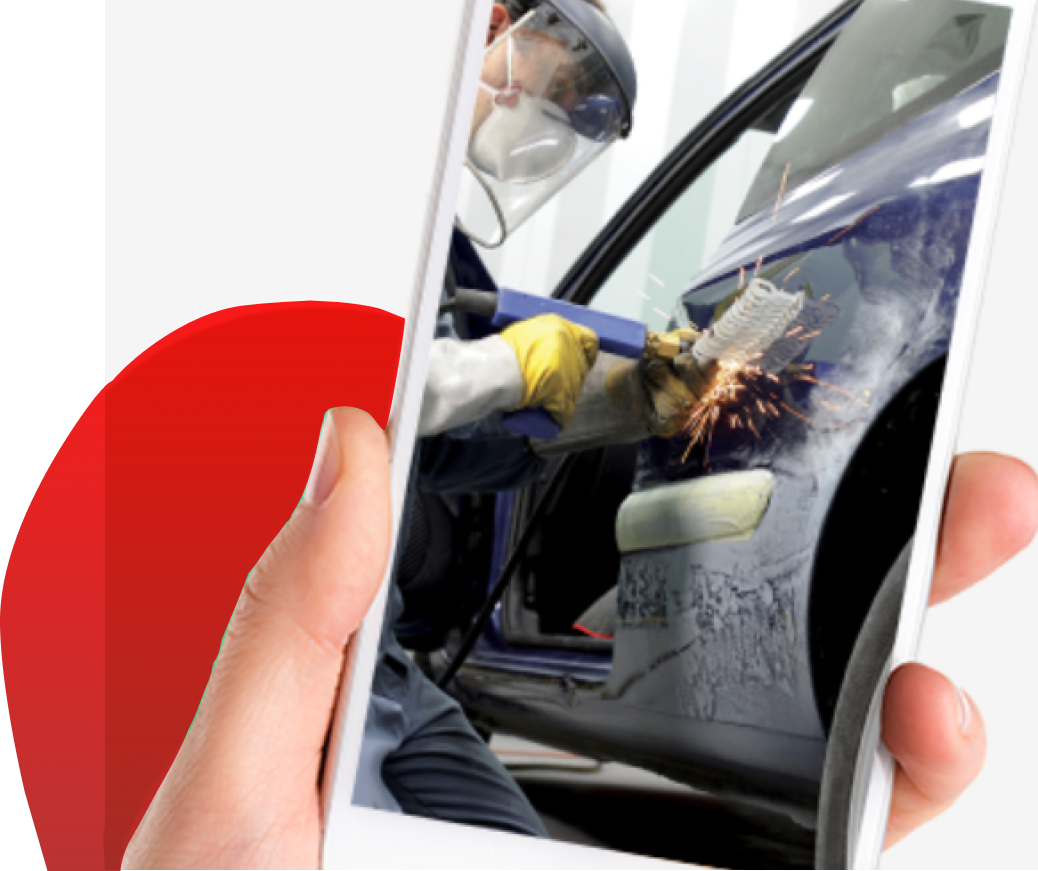
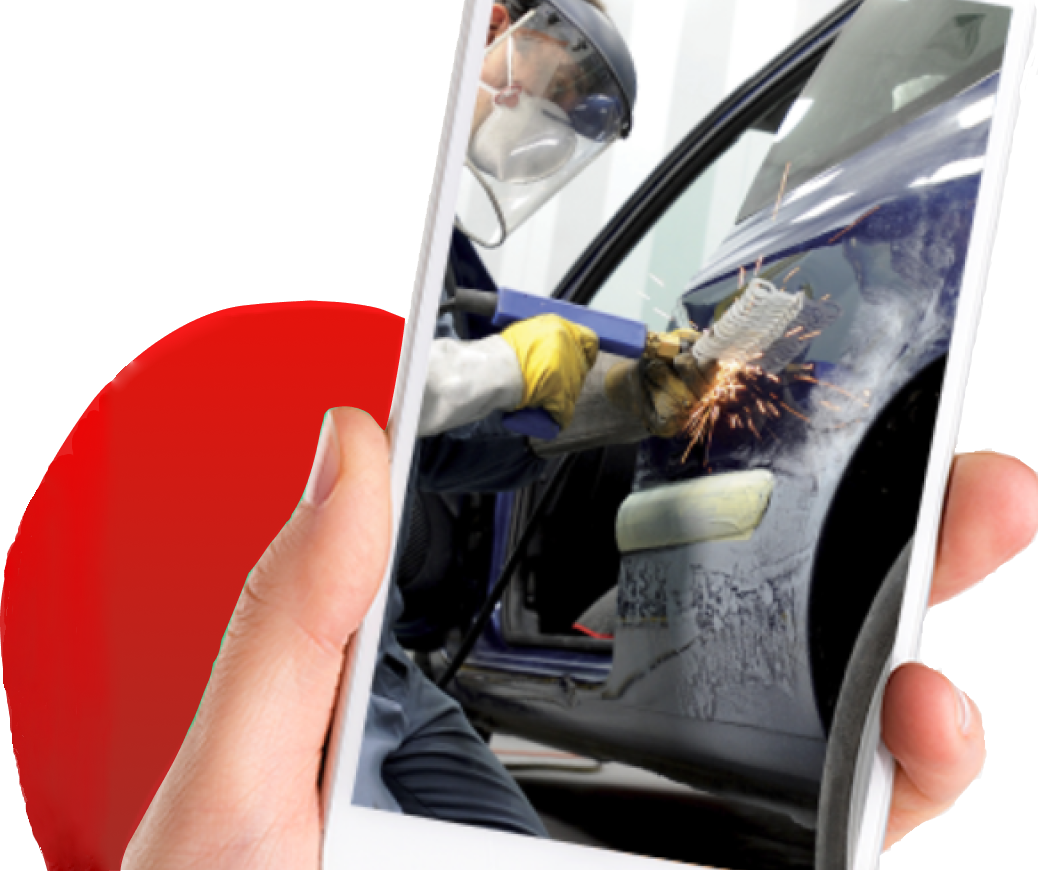
Complete

diff --git a/css/style.css b/css/style.css
@@ -424,7 +424,7 @@ header{
 /*---- photo start -----*/
 .photo{
 	padding-top: 40px;
-	background: url(../img/zz.png);
+	background: url(../img/hand.png);
 	background-repeat: no-repeat;
 	background-position: right;
 	background-size: contain;
@@ -505,18 +505,19 @@ header{
 	right: 535px;
 	top: 170px;
 	font-size: 12px;
+	z-index: -1;
 }
 #s1{
 	right: 440px;
-	top: 110px;
+	top: 120px;
 }
 #s2{
 	top: 230px;
-	right: 545px;
+	right: 560px;
 }
 #s3{
-	top: 400px;
-	right: 545px;
+	top: 410px;
+	right: 580px;
 
 }
 
@@ -1223,23 +1224,25 @@ footer{
 		font-size: 14px;
 	}
 	.photo{
-		background-position: bottom 0 right 0, bottom 0px right 250px;
-    	background-size: 500px, 300px;
+		background-position: bottom 0 right -100px;
 	}
 	.photo span{
 		font-size: 11px;
+		width: 125px;
+		height: 125px;
+		text-align: center;
 	}
 	#s1 {
-	    right: 340px;
-	    top: 110px;
+	    right: 390px;
+	    top: 170px;
 	}
 	#s2 {
-	    top: 230px;
-	    right: 445px;
+	    top: 280px;
+	    right: 510px;
 	}
 	#s3 {
-	    top: 400px;
-	    right: 445px;
+	    top: 440px;
+	    right: 500px;
 	}
 	.remont_item{
 		margin-right: 20px;
@@ -1256,8 +1259,7 @@ footer{
 		font-size: 30px;
 	}
 	.photo{
-		background-position: bottom 0 right -150px, bottom 0px right 100px;
-    	background-size: 500px, 300px;
+		background-position: bottom 0 right -250px;
 	}
 	.photo span{
 		font-size: 11px;
@@ -1266,16 +1268,16 @@ footer{
 		text-align: center;
 	}
 	#s1 {
-	    right: 200px;
-	    top: 110px;
+	    right: 190px;
+	    top: 140px;
 	}
 	#s2 {
-	    top: 230px;
-	    right: 300px;
+	    top: 250px;
+	    right: 330px;
 	}
 	#s3 {
 	    top: 420px;
-	    right: 320px;
+	    right: 360px;
 	}
 	.contacts_grid .right h4{
 		font-size: 26px;
@@ -1387,20 +1389,19 @@ footer{
 		grid-column-gap: 50px;
 	}
 	.photo {
-	    background-position: bottom 0 right -200px, bottom 0px right 50px;
-	    background-size: 500px, 300px;
+	    background-position: bottom 0 right -350px;
 	}
 	#s1 {
-	    right: 150px;
-	    top: 120px;
+	    right: 120px;
+	    top: 140px;
 	}
 	#s2 {
-	    top: 240px;
-	    right: 260px;
+	    top: 270px;
+	    right: 230px;
 	}
 	#s3 {
-	    top: 420px;
-	    right: 270px;
+	    top: 440px;
+	    right: 250px;
 	}
 	.remont_item b{
 		font-size: 3em;
@@ -1511,20 +1512,22 @@ footer{
 		width: 200px;
 	}
 	.photo {
-	    background-position: bottom 0 right -250px, bottom 0px right 0px;
-	    background-size: 500px, 300px;
+	    background-position: bottom 0 right -350px;
 	}
 	#s1 {
-	    top: 100px;
-	    right: 100px;
+	    top: 140px;
+	    right: 80px;
 	}
 	#s2 {
-	    top: 220px;
-	    right: 210px;
+	    top: 250px;
+	    right: 190px;
 	}
 	#s3 {
-	    top: 410px;
+	    top: 390px;
 	    right: 220px;
+	}
+	.photo span{
+		font-size: 10px;
 	}
 	.dang h3{
 		font-size: 16px;
@@ -1641,20 +1644,20 @@ footer{
 		font-size: 10px;
 	}
 	.photo {
-	    background-position: bottom 0 right -200px, bottom 0px right 10px;
-	    background-size: 400px, 230px;
+	    background-position: bottom 0 right -250px;
+	    background-size: 500px;
 	}
 	#s1 {
-	    top: 180px;
-	    right: 90px;
+	    top: 220px;
+	    right: 70px;
 	}
 	#s2 {
-	    top: 280px;
+	    top: 300px;
 	    right: 180px;
 	}
 	#s3 {
 	    top: 430px;
-	    right: 170px;
+	    right: 180px;
 	}
 	.header_content{
 		font-size: 10px;
@@ -1799,20 +1802,25 @@ footer{
 		width: 125px;
 	}
 	.photo {
-	    background-position: bottom 0 right 000px, bottom 0px right 110px;
-	    background-size: 200px, 150px;
+	    background-position: bottom 0 right -200px;
+	    background-size: 400px;
 	}
 	#s1 {
-	    top: 180px;
-	    right: 90px;
+	    top: 280px;
+	    right: 60px;
 	}
 	#s2 {
-	    top: 280px;
-	    right: 180px;
+	    top: 340px;
+	    right: 150px;
 	}
 	#s3 {
-	    top: 430px;
-	    right: 170px;
+	    top: 440px;
+	    right: 160px;
+	}
+	.photo span{
+		width: 75px;
+		height: 75px;
+		font-size: 7px;
 	}
 	.services__item{
 		width: 30%;
@@ -2087,5 +2095,21 @@ footer{
 	}
 	.footer_content{
 		font-size: 7px;
+	}
+	.photo {
+	    background-position: bottom 0 right -250px;
+	    background-size: 400px;
+	}
+	#s1 {
+	    top: 290px;
+	    right: 10px;
+	}
+	#s2 {
+	    top: 350px;
+	    right: 90px;
+	}
+	#s3 {
+	    top: 460px;
+	    right: 100px;
 	}
 }
